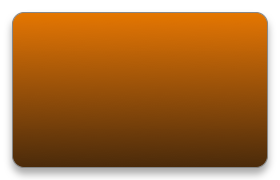
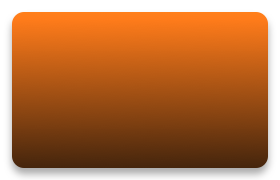
Added backgrounds for all trains that iSepta has colors for.

Changed region(s): [[0.0286, 0.0556, 0.9714, 0.9167], [0.0571, 0.9167, 0.9429, 0.9444]]

diff --git a/Septa Train View.dcproj/project.wdgt/application.js b/Septa Train View.dcproj/project.wdgt/application.js
@@ -1,7 +1,6 @@
-
-var availableBackgrounds = ['r3', 'r6', 'r7'];
-
 function setTrainLine(name) {
+    var availableBackgrounds = ['r1', 'r2', 'r3', 'r5', 'r6', 'r7', 'r8'];
+
     if ($.inArray(name.toLowerCase(), availableBackgrounds) != -1) {
         $('#frontImg').attr('src', 'Backgrounds/' + name.toLowerCase() + '.png');
     } else {
